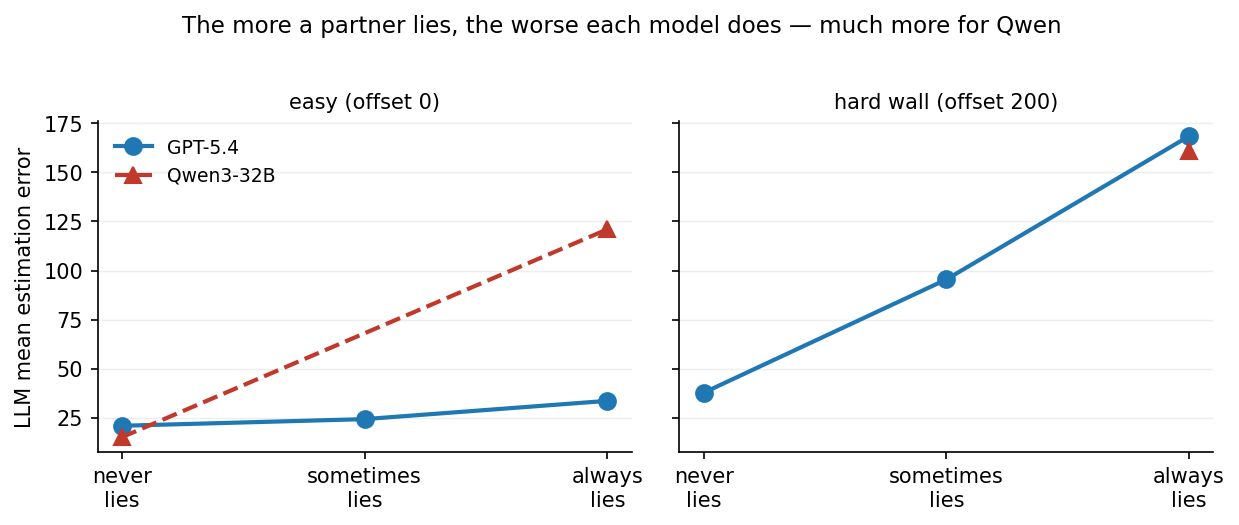
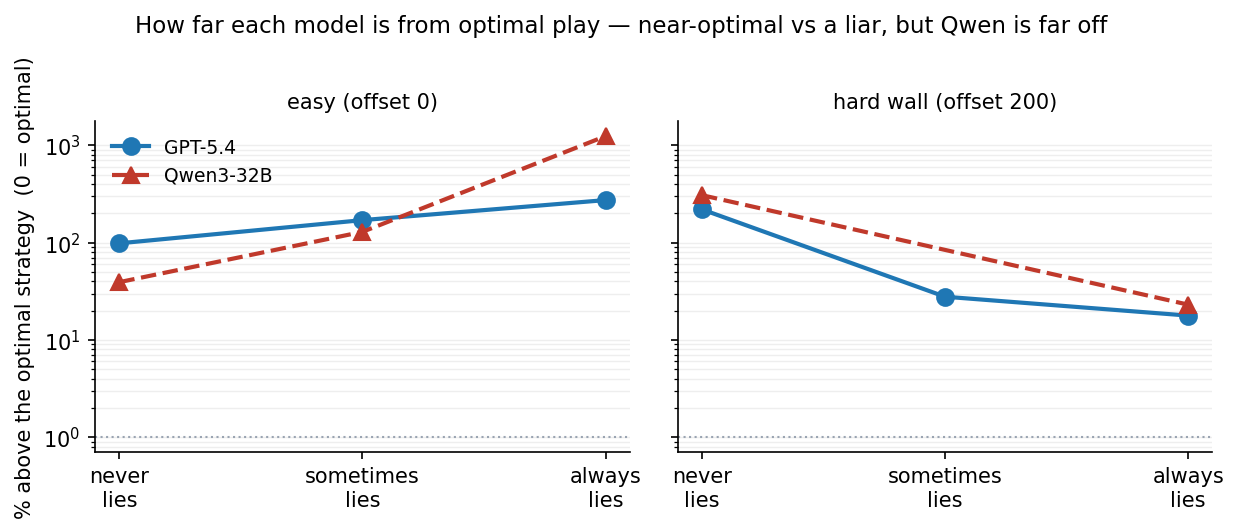
Views in '% above optimal strategy' instead of raw error
All three /views now normalize by the best scripted response to each partner
(ignore a liar = solo; cooperate with honest/mixed), so the y-axis isolates
the MODEL's mistake from the task's difficulty. optimal_errors() computes and
caches that reference from free scripted matches; pct_above_optimal() is the
per-point transform; log y-axis (0=optimal). Reveals the two-sided story: near
optimal vs a liar at the hard wall (can't do better), but far off vs a liar at
easy (over-trust) and vs an honest partner at hard (under-cooperate).

diff --git a/scripts/plot_cost_error.py b/scripts/plot_cost_error.py
@@ -47,6 +47,69 @@ def rational_error(offset, price):
     return _ERR_POOL if gain > price else _err_solo(offset)
 
 
+# --- the empirical "optimal strategy" reference, per (partner, offset) --------
+# Best scripted response, run in the LLM's seat vs the same partner under the
+# same paid-market economics: IGNORE a liar (solo), COOPERATE with an honest or
+# mixed partner if it helps (min of solo / always-pool). Cached to disk since it
+# is deterministic and the same for every match.
+_OPT_CACHE = os.path.join(os.path.dirname(os.path.dirname(os.path.abspath(__file__))),
+                          "runs", "optimal_ref.json")
+
+
+def optimal_errors(offsets=(0, 200), seeds=3):
+    """{(partner, offset): optimal mean error}. Computed once, then cached."""
+    import json
+    if os.path.exists(_OPT_CACHE):
+        try:
+            raw = json.load(open(_OPT_CACHE))
+            out = {}
+            for k, v in raw.items():             # key "partner|offset" -> int offset
+                p, o = k.rsplit("|", 1)
+                out[(p, int(o))] = v
+            return out
+        except (OSError, ValueError):
+            pass
+    from agora.config import PRESETS
+    from agora.referee import run_match
+    from agora.run import build_policies
+    base = PRESETS["probe_trust"].with_(require_paid_trades=True, min_trade_price=1.0,
+                                        starting_credits=60.0)
+
+    def _err(spec, off, seed):
+        cfg = base.with_(bias_sigma=float(off), seed=seed)
+        r = run_match(cfg, build_policies(cfg, spec, "x", "x"), 4)
+        es = [e["result"]["errors"]["A"] for e in r.transcript.events
+              if e["event"] == "round_end"]
+        es = [x for x in es if x == x]
+        return sum(es) / len(es) if es else float("nan")
+
+    def _mean(spec, off):
+        return sum(_err(spec, off, s) for s in range(seeds)) / seeds
+
+    out = {}
+    for partner in ("liar", "honest_cooperator", "mixed_liar"):
+        for off in offsets:
+            solo = _mean(f"bayesian_solo,{partner}", off)
+            # ignoring is the principled response to a liar; cooperating can only
+            # help against a partner that shares real readings
+            out[(partner, off)] = solo if partner == "liar" \
+                else min(solo, _mean(f"honest_cooperator,{partner}", off))
+    try:
+        json.dump({f"{p}|{o}": v for (p, o), v in out.items()}, open(_OPT_CACHE, "w"))
+    except OSError:
+        pass
+    return out
+
+
+def pct_above_optimal(err, partner, offset, opt):
+    """How far the LLM's error is ABOVE the optimal strategy's, in percent
+    (0 = optimal play). Clamped at 0 (noise can nudge an LLM just under)."""
+    o = opt.get((partner, int(offset)))
+    if not o or o <= 0:
+        return None
+    return max(0.0, 100.0 * (err / o - 1.0))
+
+
 # --- empirical points --------------------------------------------------------
 PARTNERS = [("liar", "always lies"), ("mixed_liar", "mixed"),
             ("honest_cooperator", "never lies")]

diff --git a/scripts/plot_error_views.py b/scripts/plot_error_views.py
@@ -33,9 +33,21 @@ MODELS = [("gpt54", "GPT-5.4", "#1f77b4", "o", "-"),
 DIFFS = [(0, "easy (offset 0)"), (200, "hard wall (offset 200)")]
 
 
+YLABEL = "% above the optimal strategy"
+
+
 def _points():
-    return _ce._match_points([("gpt54", os.path.join(REPO, "runs", "gpt54")),
-                              ("qwen", os.path.join(REPO, "runs", "qwen"))])
+    """Grid matches with error re-expressed as % above the optimal strategy for
+    that (partner, offset). Points where no optimal reference exists are dropped."""
+    raw = _ce._match_points([("gpt54", os.path.join(REPO, "runs", "gpt54")),
+                             ("qwen", os.path.join(REPO, "runs", "qwen"))])
+    opt = _ce.optimal_errors()
+    out = []
+    for partner, off, price, model, err in raw:
+        pct = _ce.pct_above_optimal(err, partner, off, opt)
+        if pct is not None:
+            out.append((partner, off, price, model, pct))
+    return out
 
 
 def _agg(pts):
@@ -57,20 +69,22 @@ def view_lines(pts):
         for mk, name, color, marker, ls in MODELS:
             ys = [mean.get((p, mk, off)) for p, _ in HONESTY]
             xx = [x for x, y in zip(xs, ys) if y is not None]
-            yy = [y for y in ys if y is not None]
+            yy = [max(y, 1) for y in ys if y is not None]   # floor 1% for log axis
             if yy:
                 ax.plot(xx, yy, ls, marker=marker, ms=8, lw=2, color=color, label=name)
+        ax.axhline(1, color="#9aa4b2", lw=1, ls=":")     # optimal play
+        ax.set_yscale("log")
         ax.set_xticks(xs)
         ax.set_xticklabels([lbl for _, lbl in HONESTY])
         ax.set_title(title, fontsize=10)
-        ax.grid(True, axis="y", color="#eee", lw=0.7)
+        ax.grid(True, axis="y", color="#eee", lw=0.7, which="both")
         ax.set_axisbelow(True)
         for s in ("top", "right"):
             ax.spines[s].set_visible(False)
-    axes[0].set_ylabel("LLM mean estimation error")
+    axes[0].set_ylabel(YLABEL + "  (0 = optimal)")
     axes[0].legend(frameon=False, fontsize=9, loc="upper left")
-    fig.suptitle("The more a partner lies, the worse each model does — "
-                 "much more for Qwen", fontsize=11, y=1.02)
+    fig.suptitle("How far each model is from optimal play — near-optimal vs a "
+                 "liar, but Qwen is far off", fontsize=11, y=1.02)
     fig.tight_layout()
     _save(fig, "err_lines")
 
@@ -97,11 +111,11 @@ def view_heatmap(pts):
     for i in range(len(rows)):
         for j in range(len(HONESTY)):
             if np.isfinite(M[i, j]):
-                ax.text(j, i, f"{M[i, j]:.0f}", ha="center", va="center",
+                ax.text(j, i, f"{M[i, j]:.0f}%", ha="center", va="center",
                         color="black" if M[i, j] < np.nanmax(M) * 0.6 else "white",
                         fontsize=10, fontweight="bold")
-    ax.set_title("Estimation error: darker = more wrong", fontsize=10)
-    fig.colorbar(im, ax=ax, fraction=0.046, pad=0.04, label="mean error")
+    ax.set_title("% above optimal play: darker = further from optimal", fontsize=10)
+    fig.colorbar(im, ax=ax, fraction=0.046, pad=0.04, label=YLABEL)
     fig.tight_layout()
     _save(fig, "err_heatmap")
 
@@ -124,19 +138,21 @@ def view_scatter(pts):
                 if not by_price:
                     continue
                 xs = sorted(by_price)
-                ys = [sum(by_price[x]) / len(by_price[x]) for x in xs]
+                ys = [max(sum(by_price[x]) / len(by_price[x]), 1) for x in xs]
                 shade = color if off else _lighten(color)
                 ax.plot(xs, ys, ls, marker=marker, ms=7, lw=1.6, color=shade)
+        ax.axhline(1, color="#9aa4b2", lw=1, ls=":")
+        ax.set_yscale("log")
         ax.set_xscale("log", base=2)
         ax.set_xticks(prices)
         ax.set_xticklabels([f"{p:g}" for p in prices])
         ax.set_title(f"partner: {label}", fontsize=10)
         ax.set_xlabel("price of information")
-        ax.grid(True, axis="y", color="#eee", lw=0.7)
+        ax.grid(True, axis="y", color="#eee", lw=0.7, which="both")
         ax.set_axisbelow(True)
         for s in ("top", "right"):
             ax.spines[s].set_visible(False)
-    axes[0].set_ylabel("LLM mean estimation error")
+    axes[0].set_ylabel(YLABEL + "  (0 = optimal)")
     from matplotlib.lines import Line2D
     h = [Line2D([], [], color=c, marker=m, ls=l, label=n) for _, n, c, m, l in MODELS]
     h += [Line2D([], [], color="#888", marker="s", ls="", label="dark=hard, light=easy")]